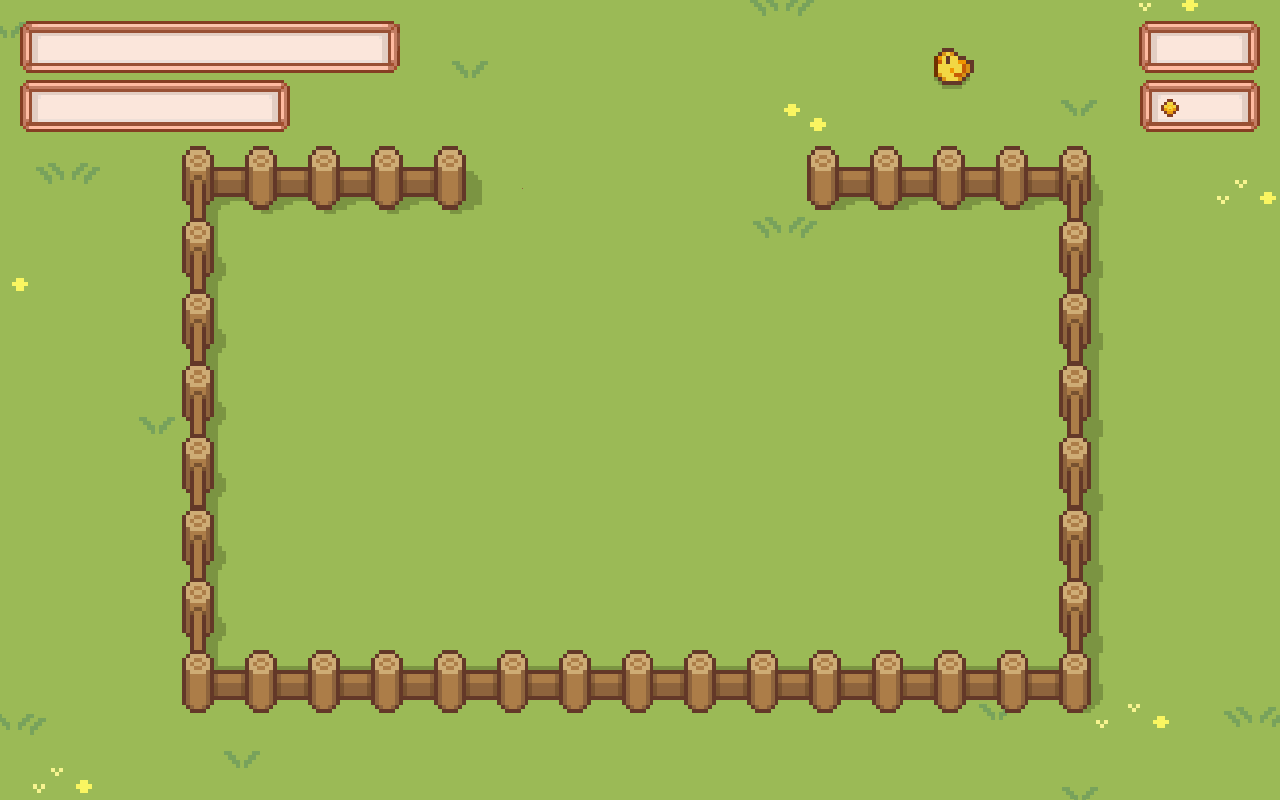
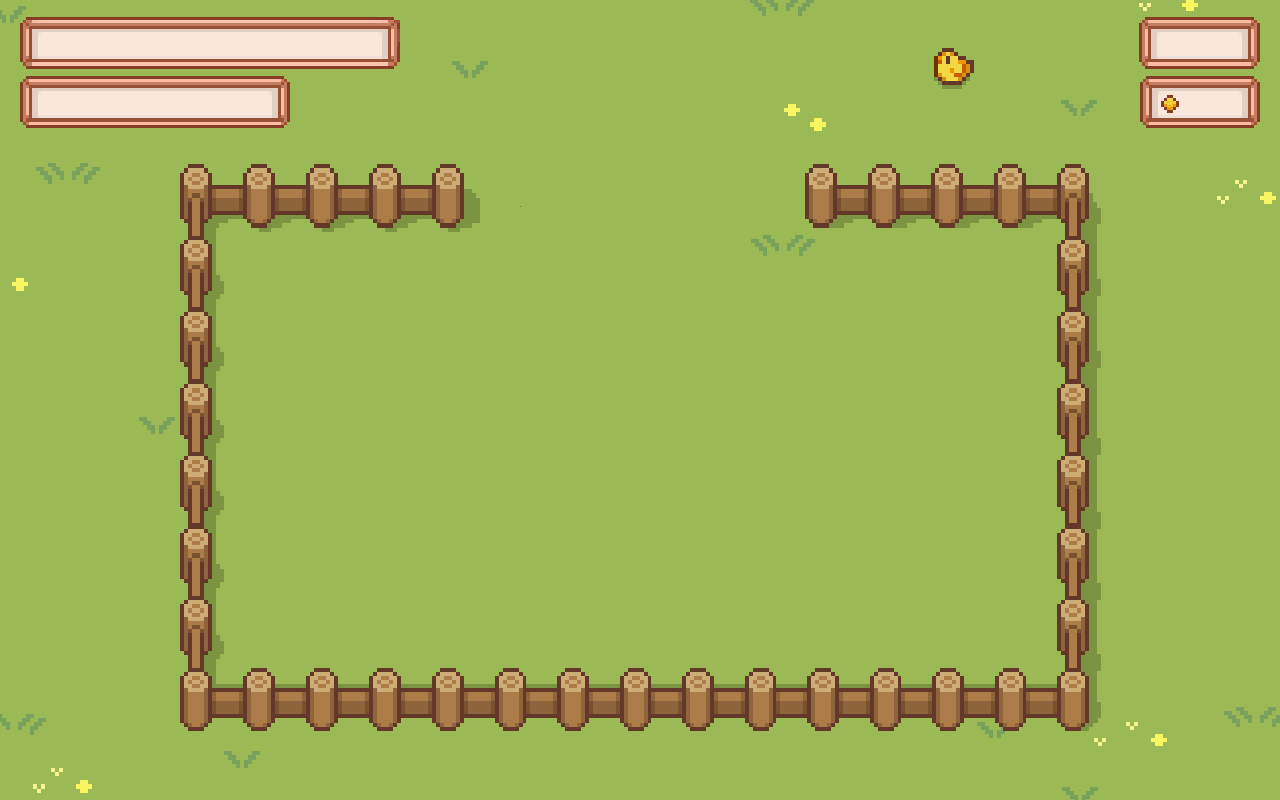
Added unplowed tiles

Changed region(s): [[0.0, 0.0, 0.9062, 0.9375], [0.875, 0.0, 1.0, 0.1875]]

diff --git a/FarmerView.java b/FarmerView.java
@@ -23,31 +23,31 @@ public class FarmerView extends JPanel {
         // Sets farmer rank
         this.rankLbl = new JLabel("Distinguished Farmer");
         this.rankLbl.setForeground(new Color(0x633828));
-        this.rankLbl.setBounds(45, 26, 380, 50);
+        this.rankLbl.setBounds(45, 22, 380, 50);
         changeFont(this.rankLbl);
 
         // Sets farmer level
         this.levelLbl = new JLabel("Lvl. 11");
         this.levelLbl.setForeground(new Color(0x633828));
-        this.levelLbl.setBounds(320, 26, 380, 50);
+        this.levelLbl.setBounds(320, 22, 380, 50);
         changeFont(this.levelLbl);
 
         // Sets experience gained
         this.expLbl = new JLabel("Exp. Gained: 69");
         this.expLbl.setForeground(new Color(0x633828));
-        this.expLbl.setBounds(45, 86, 270, 50);
+        this.expLbl.setBounds(45, 82, 270, 50);
         changeFont(this.expLbl);
 
         // Sets number of days passed
         this.daysLbl = new JLabel("Day 1");
         this.daysLbl.setForeground(new Color(0x633828));
-        this.daysLbl.setBounds(1185, 26, 380, 50);
+        this.daysLbl.setBounds(1185, 22, 380, 50);
         changeFont(this.daysLbl);
 
         // Sets Objectcoins of the Farmer
         this.coinsLbl = new JLabel("0");
         this.coinsLbl.setForeground(new Color(0x633828));
-        this.coinsLbl.setBounds(1225, 86, 270, 50);
+        this.coinsLbl.setBounds(1225, 82, 270, 50);
         changeFont(this.coinsLbl);
 
         // Places all labels in the panel

diff --git a/TileView.java b/TileView.java
@@ -7,12 +7,14 @@ public class TileView extends JPanel {
     public TileView() {
         this.farmPanel = new JPanel();
         this.farmPanel.setOpaque(false);
-        GridLayout farmLayout = new GridLayout(5, 10,2,2);
+        GridLayout farmLayout = new GridLayout(5, 10,8,8);
         this.farmPanel.setLayout(farmLayout);
-        this.farmPanel.setBounds(240, 230, 800, 400);
+        this.farmPanel.setBounds(250, 260, 772, 382);
+
+        Icon unplowed = new ImageIcon("assets/tiles/unplowed.png");
 
         for (int i = 0; i < (10*5); i++) {
-            farmPanel.add(new JButton("Tile"));
+            farmPanel.add(new JButton(unplowed));
         }
     }
 
